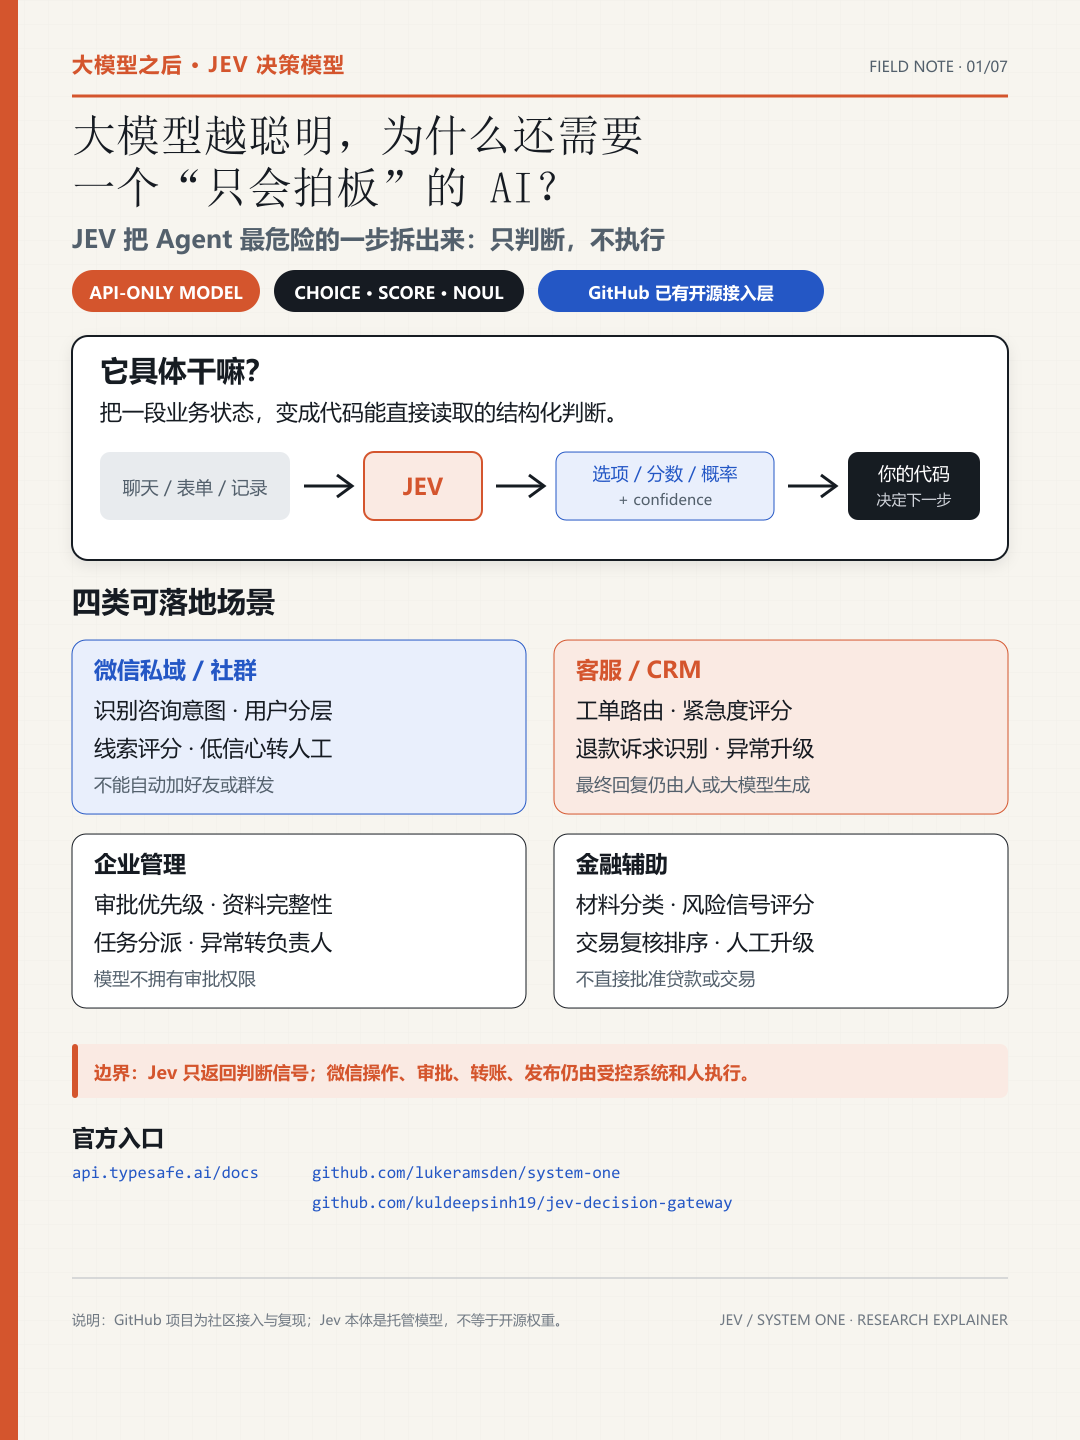
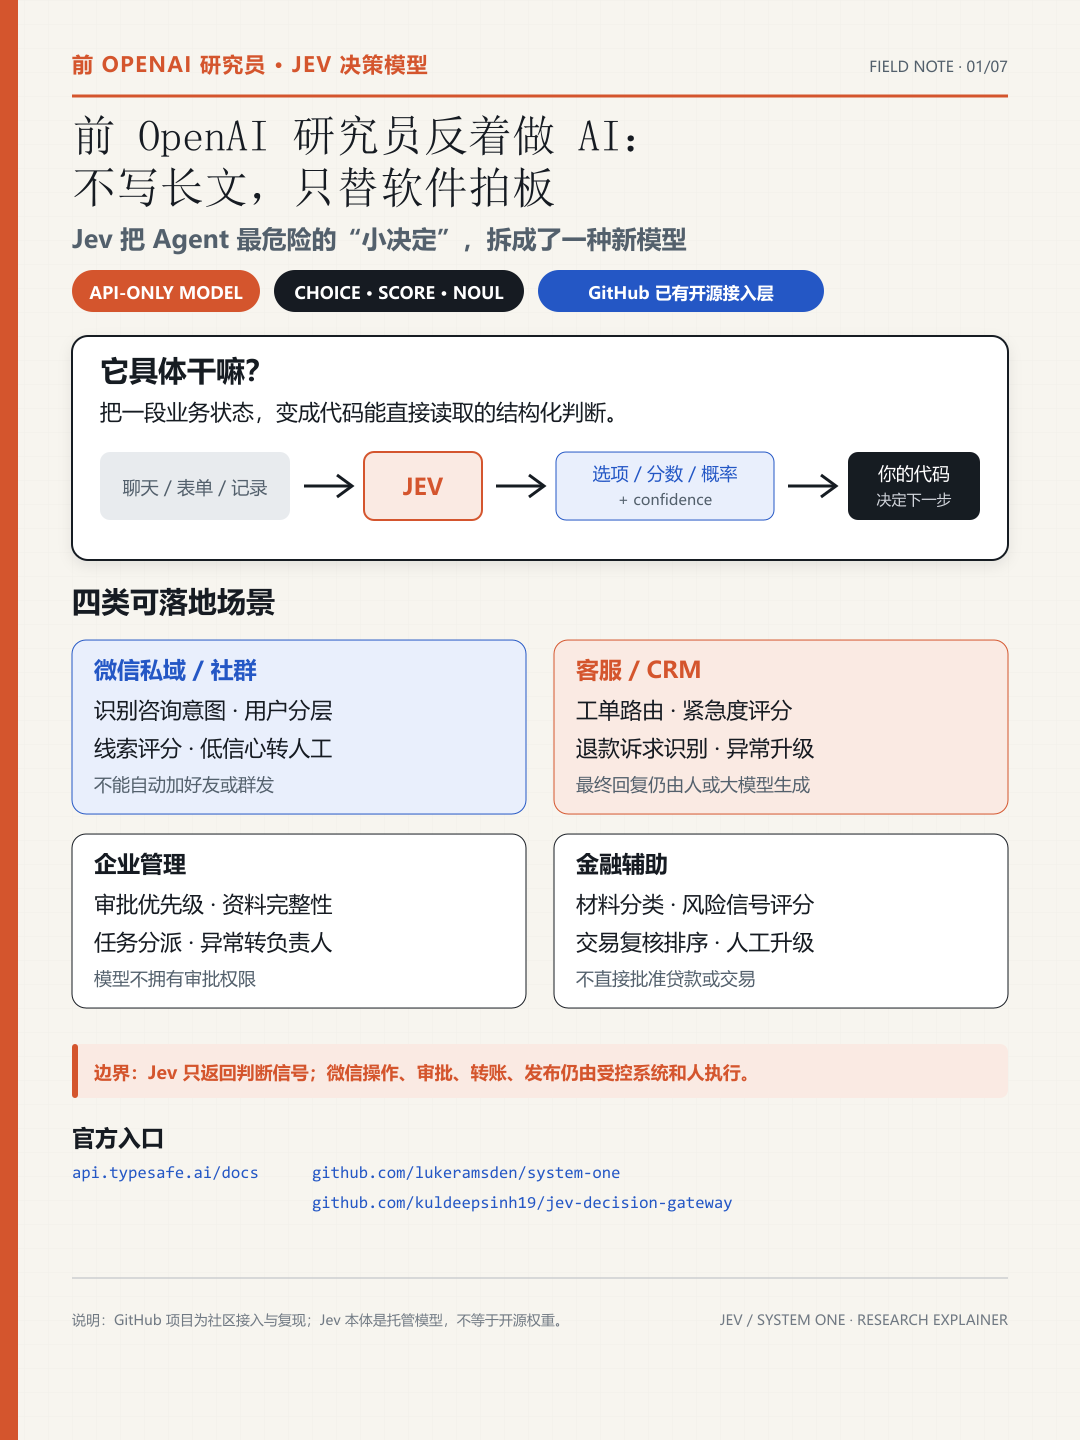
feat: calibrate Jev and Muse editorial packages

Changed region(s): [[0.0611, 0.0312, 0.6417, 0.1875]]

diff --git a/public/pilots/muse-carousel-v1/copy.md b/public/pilots/muse-carousel-v1/copy.md
@@ -2,21 +2,33 @@
 
 ## 标题
 
-Meta的新AI不陪聊，它开始替你下单
+Meta把AI放出聊天框，Amazon为什么先关门？
+
+## 封面副标题
+
+Muse开始替人发邮件、订行程、逛商店，第一场Agent入口战争已经发生
+
+## 备选标题
+
+1. Meta的AI开始替人办事，第一场战争却发生在购物车
+2. 下一代AI不陪聊：Muse要接管日常，Amazon先说不
+3. 当AI替你打开网站，谁还有权决定它能去哪里？
 
 ## 作品描述
 
-Meta 这次发布的，不是又一个陪你聊天的 AI。Muse 会自己打开网站、填表、发邮件、安排行程，甚至把购物推进到确认之前。
+过去两年，AI一直在教人“怎么做”。Meta现在想跨过这一步：Muse不只给建议，而是打开网站、填写表格、发送邮件、安排行程，把任务推进到需要你确认的位置。
 
-真正值得注意的是：它不是在对话框里“教你怎么做”，而是在一台隔离的虚拟电脑里替你一步步做。任务耗时很久也能继续推进，到了发送、购买等关键动作，再回来找你确认。
+Meta称，每个人的Muse运行在独立的Secure VM里，拥有自己的浏览器和任务环境。你给它目标，它持续推进；涉及敏感权限和关键动作时，再由安全策略或用户决定是否放行。
 
-但 Muse 上线后不久，Amazon 就阻止它浏览和代购。表面上是访问、安全和数据规则，底层却是一场入口争夺：如果用户以后先把需求交给 AI，谁还会先打开购物 App？
+然后真正有意思的事情发生了：Muse上线后不久，Amazon阻止它在网站上浏览和代购。一个AI是否足够聪明已经不是唯一问题，它还必须得到每个平台的允许。
 
-这也把个人 Agent 最大的问题推到台前：读网页、读邮件、改日程、发消息、付款和公开发布，绝不能共用同一级权限。真正能长期使用的 Agent，必须让过程看得见、动作可暂停、权限可撤销、结果有回执。
+这表面上是安全和访问规则，底层却是一场入口争夺：如果用户以后先把需求交给个人Agent，电商、旅行、支付和社交平台，谁还能直接拥有用户？
 
-GitHub 上的 OpenMuse 已经把其中一部分工程思路开源：持久浏览器、任务计划、审批和操作记录。它不是 Meta Muse 的源码，却是理解“个人 Agent 应该怎么做”的好参考。
+对普通人来说，最重要的不是“AI能不能自动买东西”，而是权限必须分层：读邮件、改日程、发消息、付款和公开发布，不能共用同一把钥匙。过程要看得见，动作能暂停，权限可撤销，结果有回执。
 
-这组图讲清楚：Muse 能做什么、Amazon 为什么拦它、权限怎么分层，以及 OpenAI、Google、Meta 真正争夺的是什么。
+GitHub上的OpenMuse展示了持久浏览器、任务计划、审批和操作记录等工程思路。它不是Meta Muse的官方源码，只能作为理解个人Agent架构的社区参考。
+
+Muse不是一次“上市”，而是产品上线。它真正标志的变化是：AI竞争开始从谁回答得更好，转向谁能安全地替用户完成更多事情。
 
 ## 话题
 
@@ -25,11 +37,13 @@ GitHub 上的 OpenMuse 已经把其中一部分工程思路开源：持久浏览
 ## 公开资料
 
 - Meta 官方发布：https://about.fb.com/news/2026/09/introducing-muse-personal-ai-agent/
+- Axios 发布报道：https://www.axios.com/2026/09/08/meta-debuts-muse-personal-ai-agent
+- Axios 平台阻断报道：https://www.axios.com/newsletters/axios-am-12828d89-342e-452b-a7e9-a70078c56670
 - OpenMuse 开源项目：https://github.com/CopilotKit/openmuse
 
 ## 传播结构
 
-- Hook 类型：已知主体 + 冲突反差
-- 核心变量：Meta 的执行型 AI 与 Amazon 的平台阻断
-- 测试假设：把“替你下单”和“平台关门”前置，比抽象的 Agent 入口叙事更容易让普通用户停留
+- Hook 类型：两个已知品牌 + 平台冲突
+- 核心变量：Meta的执行型AI与Amazon的平台阻断
+- 测试假设：先讲Meta和Amazon的冲突，再解释Muse，比直接介绍产品功能更容易让陌生用户停留
 - 风险边界：不写成 Muse 已完成真实购买，不把 OpenMuse 写成 Meta 官方源码

diff --git a/public/pilots/editorial-patterns-v1.md b/public/pilots/editorial-patterns-v1.md
@@ -1,0 +1,39 @@
+# AI 科技媒体标题与正文结构研究 v1
+
+## 样本
+
+- 采样日期：2026-09-28
+- 公开样本：168 篇
+- 完整正文：135 篇
+- 来源：量子位 60、新智元 60、机器之心 20、Rexpand 睿思班 15、财联社 13
+- 原始语料保存在本机忽略目录 `outputs/editorial-corpus-2026-09-28.json`，不把抓取正文提交到仓库。
+
+## 可复用结论
+
+1. 陌生产品名不能独立承担点击。标题先放 OpenAI、Meta、Amazon、Claude 等已知主体，再揭示 Jev 或 Muse。
+2. 标题至少同时具备两个变量：具体事实、冲突、数字、用户影响。只有“重磅”“震撼”而没有事实，不进入成稿。
+3. 第一屏不解释名词，先说变化：谁正在失去什么，谁开始替人做什么，普通人为什么要关心。
+4. 正文顺序固定为：冲突钩子 → 已发生事实 → 工作原理 → 使用场景 → 反方证据或限制 → 对读者的影响。
+5. 新智元的高情绪词只用于 A/B 候选；事实强度以机器之心、量子位和财联社式证据链校准。
+6. Rexpand 的价值不是“求职题材”，而是每篇都把宏观新闻翻译成特定人群下一步该做什么。
+
+## 标题统计
+
+| 来源 | 数量 | 平均标题长度 | 含数字 | 问句 | 感叹号 | 已知品牌/人物 |
+| --- | ---: | ---: | ---: | ---: | ---: | ---: |
+| 新智元 | 60 | 29.9 | 42 | 4 | 51 | 35 |
+| 量子位 | 60 | 31.0 | 19 | 5 | 19 | 18 |
+| 机器之心 | 20 | 32.3 | 9 | 2 | 8 | 9 |
+| Rexpand 睿思班 | 15 | 36.5 | 11 | 7 | 7 | 3 |
+| 财联社 | 13 | 32.8 | 8 | 3 | 3 | 3 |
+
+这些统计只描述样本，不等于抖音流量预测。没有真实曝光、停留和完播数据时，不承诺具体浏览量。
+
+## 知绘工厂的编辑门槛
+
+- 标题必须让不知道 Jev/Muse 的人也能理解冲突。
+- 每个核心数字必须能回到公开来源；厂商 benchmark 明示为厂商数据。
+- 不把“上线”写成“上市”，不把社区项目写成官方源码。
+- 不把“可代办”写成“可越权自动购买”；发送、付款和公开发布保留人工确认。
+- 每篇只讲一个主冲突，其他角度拆成后续选题，不把所有信息塞进一篇。
+
